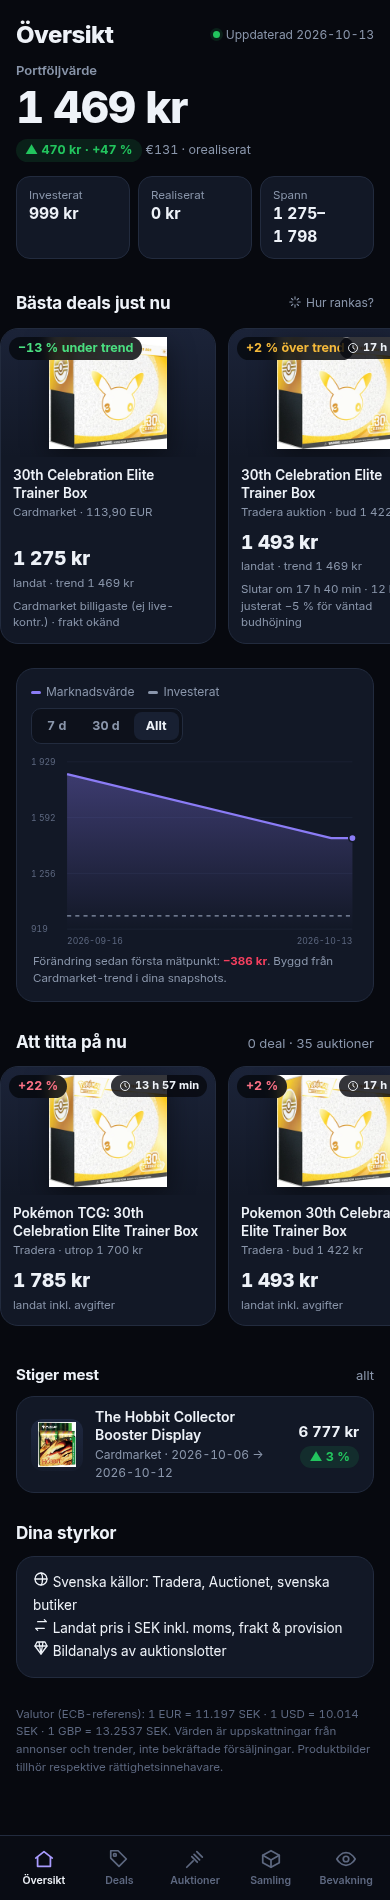
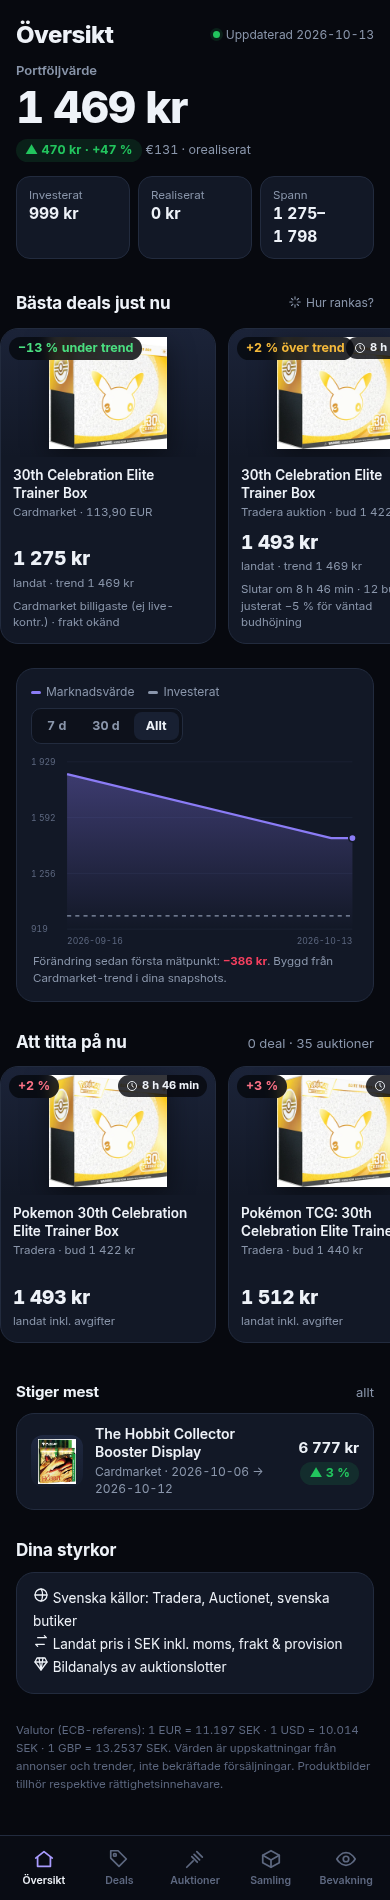
Max 5 per objekt överallt, objektsidor #item/<id>, max 2 per objekt i Bästa deals

diff --git a/app.js b/app.js
@@ -137,30 +137,45 @@ function spark(it) { const p = series(it).pts; if (new Set(p.map(x => x[0])).siz
   return `<svg width=${w} height=${h} viewBox="0 0 ${w} ${h}" style="display:block;margin-left:auto"><polyline fill=none stroke="${c}" stroke-width=1.8 points="${p.map(q => (2 + (q[0] - x0) / (x1 - x0) * (w - 4)) + "," + (h - 2 - (q[1] - y0) / Math.max(y1 - y0, 1) * (h - 4))).join(" ")}"/></svg>`; }
 
 // ---------- delkomponenter ----------
-const sources = it => { const G = [["Cardmarket", ["cardmarket", "packquant"]], ["TCGplayer", ["tcgplayer"]], ["Tradera", ["tradera"]], ["Svenska butiker", ["pokejakt", "dragon", "hobbykort", "kortarkivet", "manatorsk"]], ["eBay", ["ebay"]], ["Aukro", ["aukro"]], ["Övriga EU", ["butiker eu", "pokeschnapp"]]];
-  return `<div class=src>${G.map(([g, k]) => { const ss = it.snapshots.filter(s => k.some(x => s.source.toLowerCase().includes(x))).sort((a, b) => b.date.localeCompare(a.date)).slice(0, 3);
+const sources = (it, full) => { const G = [["Cardmarket", ["cardmarket", "packquant"]], ["TCGplayer", ["tcgplayer"]], ["Tradera", ["tradera"]], ["Svenska butiker", ["pokejakt", "dragon", "hobbykort", "kortarkivet", "manatorsk"]], ["eBay", ["ebay"]], ["Aukro", ["aukro"]], ["Övriga EU", ["butiker eu", "pokeschnapp"]]];
+  return `<div class=src>${G.map(([g, k]) => { const ss = it.snapshots.filter(s => k.some(x => s.source.toLowerCase().includes(x))).sort((a, b) => b.date.localeCompare(a.date)).slice(0, full ? 99 : 3);
     return ss.length ? `<div><b>${g}</b>${ss.map(s => `<div><a href="${esc(s.url)}" target=_blank rel=noopener>${money(s.price, s.currency)}</a> <span class=mut>${TYPES[s.type]} · ${s.date}${s.approx ? "~" : ""}</span></div>`).join("")}</div>` : ""; }).join("")}</div>`; };
 function offerRow(o, withItem) {
-  return `<a class="row${o.stock_status === "out_of_stock" || !o.eng ? " oos" : ""}" href="${esc(o.url)}" target=_blank rel=noopener style="grid-template-columns:${withItem ? "52px " : ""}1fr auto">
+  return `<a class="row${o.stock_status === "out_of_stock" || !o.eng ? " oos" : ""}" title="${esc(o.risk.join(" · "))}" href="${esc(o.url)}" target=_blank rel=noopener style="grid-template-columns:${withItem ? "52px " : ""}1fr auto">
     ${withItem ? `<div class=th>${img(o.item)}</div>` : ""}<div><div class=nm>${o.deal ? '<span class="chip c-g">DEAL</span> ' : ""}${esc(o.source)}${withItem ? ` <span class=mut>· ${esc(short(o.item.name))}</span>` : ""}</div>
-    <div class=meta>${stockBadge(o)}${o.eng ? "" : '<span class="chip c-r">ej engelska</span>'}${o.origin} · ${o.date} · ${esc(o.language)}</div><div class="meta xs">${esc(o.risk.join(" · "))}</div></div>
+    <div class=meta>${stockBadge(o)}${o.eng ? "" : '<span class="chip c-r">ej engelska</span>'}${o.origin} · ${o.date} · ${esc(o.language)}</div></div>
     <div class=rt><b>${kr(o.L)}</b><span class="xs mut">${o.currency !== "SEK" ? fmt(o.price, 2) + " " + o.currency : "landat"}</span><br>${chip(o.d)}</div></a>`;
 }
-function offerRows(list, withItem) {
-  if (!list.length) return '<div class=empty>Inga sparade erbjudanden.</div>';
-  const ok = list.filter(o => o.stock_status !== "out_of_stock" && o.eng).sort((a, b) => (a.stock_status === "in_stock" ? 0 : 1) - (b.stock_status === "in_stock" ? 0 : 1) || (a.L ?? 1e9) - (b.L ?? 1e9));
+const LIM = 5;
+const itemHref = it => `#item/${it.id}`;
+const more = (n, href, what = "erbjudanden") => n > LIM ? `<a class=more href="${href}">Visa alla ${n} ${what} ${ic("chev", 14)}</a>` : "";
+const byDeal = (a, b) => (b.d ?? -1e9) - (a.d ?? -1e9) || (a.L ?? 1e9) - (b.L ?? 1e9);
+function offerRows(list, withItem, full) {
+  if (!list.length) return '<div class="empty sm">Inga sparade erbjudanden.</div>';
+  const ok = list.filter(o => o.stock_status !== "out_of_stock" && o.eng).sort((a, b) => (a.stock_status === "in_stock" ? 0 : 1) - (b.stock_status === "in_stock" ? 0 : 1) || byDeal(a, b));
   const gone = list.filter(o => o.stock_status === "out_of_stock" || !o.eng);
-  return `${ok.length ? `<div class=list>${ok.map(o => offerRow(o, withItem)).join("")}</div>` : '<div class="card empty">Inga verifierade köpbara erbjudanden.</div>'}
-  ${gone.length ? `<div class="list" style="margin-top:8px">${expRow(`<div style="grid-column:1/-1;display:flex;justify-content:space-between;align-items:center"><span class="sm mut">Slut i lager / ej engelska (${gone.length})</span><span class=chev>${ic("chev", 16)}</span></div>`, `<div class=oosl>${gone.map(o => offerRow(o, withItem)).join("")}</div>`)}</div>` : ""}`;
+  const shown = full ? ok : ok.slice(0, LIM), it = list[0].item;
+  return `${ok.length ? `<div class=list>${shown.map(o => offerRow(o, withItem)).join("")}</div>` : '<div class="card empty sm">Inga verifierade köpbara erbjudanden.</div>'}
+  ${full ? (gone.length ? `<div class="list" style="margin-top:8px">${expRow(`<div style="grid-column:1/-1;display:flex;justify-content:space-between;align-items:center"><span class="sm mut">Slut i lager / ej engelska (${gone.length})</span><span class=chev>${ic("chev", 16)}</span></div>`, `<div class=oosl>${gone.map(o => offerRow(o, withItem)).join("")}</div>`)}</div>` : "")
+    : more(list.length, itemHref(it))}`;
 }
-const community = it => (it.community || []).length ? it.community.map(c => `<div class=sm style="margin-bottom:8px"><a href="${esc(c.url)}" target=_blank rel=noopener>${esc(c.label)}</a><br><span class=mut>${esc(c.takeaway)}</span></div>`).join("") : '<div class="sm mut">Inga trådar sparade.</div>';
-function details(it) {
-  const [b, bs] = bench(it);
-  return `<div class=in><p class=sm>${esc(it.notes)}</p><h4>Prishistorik (SEK)</h4><div class=pchart>${itemChart(it)}</div>
-    ${(it.alerts || []).length ? `<h4>Prisbevakning</h4>${alertState(it).map(a => `<div class=sm style="margin-bottom:6px"><span class="chip ${a.hit ? "c-a" : "c-n"}">${ic("bell", 12)} ${a.type === "below" ? "under" : "över"} ${kr(a.sek)}</span> <span class=mut>nu ${kr(a.cur)} (${a.basis === "offer" ? "bästa landade erbjudande" : "mittvärde"}) · ${esc(a.note || "")}</span></div>`).join("")}` : ""}
-    <h4>Källor</h4>${sources(it)}<h4>Erbjudanden${b ? ` · riktmärke ${kr(b)} (Cardmarket-trend ${bs.date})` : ""}</h4>${offerRows(offersOf(it), false)}
-    ${it.cardmarket_url ? `<p class=sm><a href="${esc(it.cardmarket_url)}" target=_blank rel=noopener>${ic("ext", 13)} Cardmarket – engelska annonser (alltid i lager)</a></p>` : ""}<h4>Forum &amp; community</h4>${community(it)}${it.msrp ? `<p class="sm mut">MSRP <a href="${esc(it.msrp.url)}" target=_blank rel=noopener>${money(it.msrp.price, it.msrp.currency)}</a></p>` : ""}
-    ${it.image ? `<p class="xs mut">Bild: <a href="${esc(it.image.source_url)}" target=_blank rel=noopener>${esc(it.image.credit)}</a></p>` : ""}</div>`;
+function aucRow(a) {
+  return `<a class=row href="${esc(a.url)}" target=_blank rel=noopener><div class=th>${a.lot_analysis ? `<img class=cover src="${esc(a.lot_analysis.images[0])}" alt="">` : img(a.it, a.title)}</div>
+    <div><div class=nm>${esc(a.title)}${(a.qty || 1) > 1 ? " ×" + a.qty : ""}</div><div class=meta><span class="chip c-n">${ic("clock", 12)} ${countdown(a.ends_at)}</span>${esc(a.platform)} · ${esc(a.price_kind)} ${a.currency === "SEK" ? kr(a.price) : fmt(a.price) + " " + a.currency}${a.bids ? ` · ${a.bids} bud` : ""}</div></div>
+    <div class=rt><b>${kr(a.per)}</b>${a.d != null ? vs(a.d) : a.lot_analysis ? `<span class="chip ${a.lot_analysis.gems.length ? "c-g" : "c-n"}">${a.lot_analysis.gems.length ? "💎" : "analyserad"}</span>` : ""}</div></a>`;
+}
+const aucRows = (list, full, href) => list.length ? `<div class=list>${(full ? list : list.slice(0, LIM)).map(aucRow).join("")}</div>${full ? "" : more(list.length, href, "auktioner")}` : '<div class="empty sm">Inga pågående auktioner.</div>';
+const community = (it, full) => (it.community || []).length ? (full ? it.community : it.community.slice(0, LIM)).map(c => `<div class=sm style="margin-bottom:8px"><a href="${esc(c.url)}" target=_blank rel=noopener>${esc(c.label)}</a><br><span class=mut>${esc(c.takeaway)}</span></div>`).join("") : '<div class="sm mut">Inga trådar sparade.</div>';
+function details(it, full) {
+  const [b, bs] = bench(it), aucs = auctions().filter(a => a.live && a.item_id === it.id).sort(byDeal);
+  const src = sources(it, full);
+  return `<div class=in>${full ? `<p class="sm mut">${esc(it.notes)}</p>` : ""}<h4>Prishistorik (SEK)</h4><div class=pchart>${itemChart(it)}</div>
+    ${(it.alerts || []).length ? `<h4>Prisbevakning</h4>${alertState(it).map(a => `<div class=sm style="margin-bottom:6px"><span class="chip ${a.hit ? "c-a" : "c-n"}">${ic("bell", 12)} ${a.type === "below" ? "under" : "över"} ${kr(a.sek)}</span> <span class=mut>nu ${kr(a.cur)}</span></div>`).join("")}` : ""}
+    <h4>Bästa erbjudanden${b ? ` · trend ${kr(b)}` : ""}</h4>${offerRows(offersOf(it), false, full)}
+    ${aucs.length ? `<h4>Auktioner</h4>${aucRows(aucs, full, itemHref(it))}` : ""}
+    ${it.cardmarket_url ? `<p class=sm><a href="${esc(it.cardmarket_url)}" target=_blank rel=noopener>${ic("ext", 13)} Cardmarket – engelska annonser</a></p>` : ""}
+    ${full ? `<h4>Källor</h4>${src}<h4>Forum &amp; community</h4>${community(it, true)}${it.msrp ? `<p class="sm mut">MSRP <a href="${esc(it.msrp.url)}" target=_blank rel=noopener>${money(it.msrp.price, it.msrp.currency)}</a></p>` : ""}
+    ${it.image ? `<p class="xs mut">Bild: <a href="${esc(it.image.source_url)}" target=_blank rel=noopener>${esc(it.image.credit)}</a></p>` : ""}` : `<a class=more href="${itemHref(it)}">Öppna objektsidan ${ic("chev", 14)}</a>`}</div>`;
 }
 const expRow = (head, body) => `<div class=row onclick="this.classList.toggle('open')">${head}</div><div class=exp><div>${body}</div></div>`;
 
@@ -178,7 +193,7 @@ function dealCands() {
   return c.sort((x, y) => y.score - x.score);
 }
 function bestOf() {
-  const all = dealCands(), top = all.slice(0, 6), any = top.length && top[0].score > 0;
+  const all = dealCands(), cnt = {}, top = all.filter(x => (cnt[x.it.id] = (cnt[x.it.id] || 0) + 1) <= 2).slice(0, 6), any = top.length && top[0].score > 0;
   const info = `<details class=info><summary>${ic("spark", 14)} Hur rankas?</summary><div class="xs mut">Varje köpbart erbjudande rankas för sig, över alla bevakade objekt, efter <b>rabatt mot Cardmarket-trend</b> i landat SEK (pris + köparavgift/köparskydd + frakt + ev. importmoms).<br>• Butiker: bara verifierat i lager (lagerkoll) och engelska.<br>• Tradera Köp nu: +5 % köparskydd.<br>• Auktioner: nuvarande bud + avgifter, minus antagen budhöjning till slut: 15 % (> 3 d kvar), 10 % (1–3 d), 5 % (6–24 h), 2 % (< 6 h).<br>• Cardmarket: billigaste annons, inte live-kontrollerad.<br>Inga poäng för att bara finnas i lager. Okänd frakt räknas som 0.</div></details>`;
   return `<div class=sec><h2>${any ? "Bästa deals just nu" : "Närmast en deal"}</h2>${info}</div>${any ? "" : `<p class="sm mut" style="margin:-4px 0 10px">Inget köpbart ligger under trend just nu (${all.length} erbjudanden/auktioner jämförda). Här är de som ligger närmast.</p>`}
   <div class=strip>${top.map(x => `<a class=hc href="${esc(x.url)}" target=_blank rel=noopener><div class=im>${img(x.it)}<span class="chip ${x.score > 0 ? "c-g" : x.score > -10 ? "c-a" : "c-r"}" style="position:absolute;top:8px;left:8px">${x.d >= 0 ? "−" + fmt(x.d) + " % under" : "+" + fmt(-x.d) + " % över"} trend</span>${x.ends ? `<span class=tl>${ic("clock", 12)} ${countdown(x.ends)}</span>` : ""}</div>
@@ -190,9 +205,9 @@ function vOverview() {
   const t = totals(), pts = portfolioSeries(), w = winStart(), shown = pts.filter(p => p[0] >= w);
   const before = pts.filter(p => p[0] < w).pop(), base = before || shown[0];
   const ch = base && shown.length ? (shown[shown.length - 1][1] - base[1]) : null;
-  const deals = P.items.flatMap(offersOf).filter(o => o.deal).sort((a, b) => b.d - a.d);
+  const dc = {}, deals = P.items.flatMap(offersOf).filter(o => o.deal).sort((a, b) => b.d - a.d).filter(o => (dc[o.item.id] = (dc[o.item.id] || 0) + 1) <= 2);
   const live = auctions().filter(a => a.live), gems = live.filter(a => a.lot_analysis?.gems?.length);
-  const soon = [...gems, ...live.filter(a => !a.lot_analysis?.gems?.length)].slice(0, 6);
+  const pc = {}, soon = [...gems, ...live.filter(a => !a.lot_analysis?.gems?.length).sort(byDeal)].filter(a => (pc[a.item_id || a.url] = (pc[a.item_id || a.url] || 0) + 1) <= 2).slice(0, 6);
   const fired = P.items.flatMap(it => alertState(it).filter(a => a.hit).map(a => ({...a, it})));
   const movers = P.items.map(it => ({it, m: move(it)})).filter(x => x.m && x.m.d > 0).sort((a, b) => b.m.d - a.m.d).slice(0, 4);
   const strip = [...deals.map(o => `<a class=hc href="${esc(o.url)}" target=_blank rel=noopener><div class=im>${img(o.item)}${chip(o.d) ? `<span class="chip c-g" style="position:absolute;top:8px;left:8px">−${fmt(o.d)} %</span>` : ""}<span class=tl>${ic("tag", 12)} Deal</span></div>
@@ -211,40 +226,41 @@ function vOverview() {
   ${fired.length ? `<div class=banner>${ic("bell")}<div><b>${fired.length} prisbevakning${fired.length > 1 ? "ar" : ""} utlöst${fired.length > 1 ? "a" : ""}</b><br>${fired.map(a => `${esc(short(a.it.name))}: ${a.type === "below" ? "≤" : "≥"} ${kr(a.sek)} (nu ${kr(a.cur)})`).join("<br>")}</div></div>` : ""}
   <div class=sec><h2>Att titta på nu</h2><span>${deals.length} deal · ${live.length} auktioner</span></div>${strip.length ? `<div class=strip>${strip.join("")}</div>` : '<div class="card empty">Inget att lyfta fram just nu.</div>'}
   <div class=two><div><div class=sec><h2 style="font-size:15px">Stiger mest</h2><span>${RANGE === "all" ? "allt" : RANGE.replace("d", " d")}</span></div>
-    ${movers.length ? `<div class=list>${movers.map(({it, m}) => `<a class=row href="#${it.status === "owned" ? "samling" : "bevakning"}"><div class=th>${img(it)}</div><div><div class=nm>${esc(short(it.name))}</div><div class=meta>${esc(m.src)} · ${iso(m.from[0])} → ${iso(m.to[0])}</div></div><div class=rt><b>${kr(m.to[1])}</b>${chip(m.d)}</div></a>`).join("")}</div>` : '<div class="card empty">Inga rörelser i perioden.</div>'}</div>
+    ${movers.length ? `<div class=list>${movers.map(({it, m}) => `<a class=row href="${itemHref(it)}"><div class=th>${img(it)}</div><div><div class=nm>${esc(short(it.name))}</div><div class=meta>${esc(m.src)} · ${iso(m.from[0])} → ${iso(m.to[0])}</div></div><div class=rt><b>${kr(m.to[1])}</b>${chip(m.d)}</div></a>`).join("")}</div>` : '<div class="card empty">Inga rörelser i perioden.</div>'}</div>
   <div><div class=sec><h2>Dina styrkor</h2></div><div class="card" style="padding:14px 16px;font-size:13.5px;line-height:1.7">${ic("se", 16)} Svenska källor: Tradera, Auctionet, svenska butiker<br>${ic("swap", 16)} Landat pris i SEK inkl. moms, frakt &amp; provision<br>${ic("gem", 16)} Bildanalys av auktionslotter</div></div></div>
   ${foot()}`;
 }
+function groupBlock(it, body, n, what) {
+  return `<div class=grp><a class=grph href="${itemHref(it)}"><div class=th>${img(it)}</div><div><div class=nm>${esc(short(it.name))}</div><div class="xs mut">${n} ${what} · trend ${kr(bench(it)[0])}</div></div>${ic("chev", 16)}</a>${body}</div>`;
+}
 function vDeals() {
-  const all = P.items.flatMap(offersOf), deals = all.filter(o => o.deal);
-  return `<div class=h1>Deals</div><p class=sub>Erbjudanden ≥ ${DS.threshold_pct} % under Cardmarket-trend, i landat SEK-pris.</p>
-  ${deals.length ? `<div class=strip>${deals.map(o => `<a class=hc href="${esc(o.url)}" target=_blank rel=noopener><div class=im>${img(o.item)}<span class="chip c-g" style="position:absolute;top:8px;left:8px">−${fmt(o.d)} %</span></div><div class=bd><div class=t>${esc(short(o.item.name))}</div><div class="xs mut">${esc(o.source)} · ${esc(o.risk.slice(0, 2).join(", "))}</div><div class=p>${kr(o.L)}</div></div></a>`).join("")}</div>` : '<div class="card empty">Inga deals just nu.</div>'}
-  <div class=sec><h2>Alla erbjudanden</h2><span>${all.length}</span></div>${offerRows(all, true)}<p class="xs mut" style="margin-top:10px">${esc(DS.notes)}</p>${foot()}`;
+  const all = P.items.flatMap(offersOf), dc = {}, deals = all.filter(o => o.deal).sort((a, b) => b.d - a.d).filter(o => (dc[o.item.id] = (dc[o.item.id] || 0) + 1) <= 2);
+  const items = P.items.filter(it => (it.offers || []).length).map(it => ({it, os: offersOf(it)})).sort((a, b) => (Math.max(...b.os.filter(o => o.stock_status === "in_stock" && o.eng).map(o => o.d ?? -1e9), -1e9)) - (Math.max(...a.os.filter(o => o.stock_status === "in_stock" && o.eng).map(o => o.d ?? -1e9), -1e9)));
+  return `<div class=h1>Deals</div><p class=sub>≥ ${DS.threshold_pct} % under Cardmarket-trend i landat SEK. Max 5 per objekt – tryck för alla.</p>
+  ${deals.length ? `<div class=strip>${deals.map(o => `<a class=hc href="${esc(o.url)}" target=_blank rel=noopener><div class=im>${img(o.item)}<span class="chip c-g" style="position:absolute;top:8px;left:8px">−${fmt(o.d)} %</span></div><div class=bd><div class=t>${esc(short(o.item.name))}</div><div class="xs mut">${esc(o.source)}</div><div class=p>${kr(o.L)}</div></div></a>`).join("")}</div>` : '<div class="card empty sm">Inga deals just nu.</div>'}
+  <div class=sec><h2>Per objekt</h2><span>${all.length} erbjudanden</span></div>${items.map(({it, os}) => groupBlock(it, offerRows(os, false, false), os.length, "erbjudanden")).join("")}${foot()}`;
 }
 function vAuctions() {
   const live = auctions().filter(a => a.live), lots = live.filter(a => a.lot_analysis);
   const fees = Object.entries(AF).map(([k, v]) => `<a href="${esc(v.source)}" target=_blank rel=noopener>${esc(k)}</a> ${v.premium_pct} % + ${v.fixed} ${v.currency}`).join(" · ");
   return `<div class=h1>Auktioner</div><p class=sub>Tradera, Auctionet &amp; Bukowskis · landat pris inkl. köparprovision${", +25 % importmoms för UK-hus"}.</p>
-  <div class=sec><h2>Slutar snart</h2><span>${live.length} pågående</span></div>
-  <div class=list>${live.map(a => `<a class=row href="${esc(a.url)}" target=_blank rel=noopener><div class=th>${a.lot_analysis ? `<img class=cover src="${esc(a.lot_analysis.images[0])}" alt="">` : img(a.it, a.title)}</div>
-    <div><div class=nm>${esc(a.title)}${(a.qty || 1) > 1 ? " ×" + a.qty : ""}</div><div class=meta><span class="chip c-n">${ic("clock", 12)} ${countdown(a.ends_at)}</span>${esc(a.platform)} · ${esc(a.price_kind)} ${a.currency === "SEK" ? kr(a.price) : fmt(a.price) + " " + a.currency}${a.estimate ? ` · värd. ${fmt(a.estimate)} ${a.currency}` : ""}</div></div>
-    <div class=rt><b>${kr(a.per)}</b>${a.d != null ? vs(a.d) : a.lot_analysis ? `<span class="chip ${a.lot_analysis.gems.length ? "c-g" : "c-n"}">${a.lot_analysis.gems.length ? "💎" : "analyserad"}</span>` : ""}</div></a>`).join("") || '<div class=empty>Inga pågående auktioner.</div>'}</div>
-  ${lots.length ? `<div class=sec><h2>Lotter – bildanalys</h2><span>${ic("gem", 14)} dyrgripar / gömt och glömt</span></div><div class=list>${lots.map(a => { const x = a.lot_analysis;
+  <div class=sec><h2>Per objekt</h2><span>${live.length} pågående</span></div>
+  ${P.items.map(it => ({it, l: live.filter(a => a.item_id === it.id).sort(byDeal)})).filter(x => x.l.length).map(({it, l}) => groupBlock(it, aucRows(l, false, itemHref(it)), l.length, "auktioner")).join("")}
+  ${lots.length ? `<div class=sec><h2>Lotter – bildanalys</h2><span>${ic("gem", 14)} dyrgripar / gömt och glömt</span></div><div class=list>${(location.hash === "#lotter" ? lots : lots.slice(0, LIM)).map(a => { const x = a.lot_analysis;
     return expRow(`<div class=th><img class=cover src="${esc(x.images[0])}" alt=""></div><div><div class=nm>${esc(a.title)}</div><div class=meta>${x.gems.length ? x.gems.map(g => `<span class="chip c-g">💎 ${esc(g)}</span>`).join("") : '<span class="chip c-n">Inga dyrgripar</span>'}${x.flags.map(f => `<span class="chip c-a">${esc(f)}</span>`).join("")}</div></div><div class=rt><b>${kr(a.L)}</b><span class="xs mut">${countdown(a.ends_at)}</span><br><span class=chev>${ic("chev", 16)}</span></div>`,
       `<div class=in><p class=sm><b>Bedömning:</b> ${esc(x.verdict)}</p><p class="sm mut">${esc(x.value_note)}${x.value_range ? " Uppskattat värde: " + esc(x.value_range) : ""}</p><h4>Hittat i bilderna</h4>
        ${x.identified.map(i => `<div class=sm style="margin-bottom:8px"><b>${esc(i.what)}</b><br><span class=mut>${esc(i.notes || "")}</span>${i.price ? `<br>${i.url ? `<a href="${esc(i.url)}" target=_blank rel=noopener>${esc(i.price)}</a>` : esc(i.price)}` : ""}</div>`).join("")}
-       <h4>Bilder</h4><div class=gal>${x.images.map(u => `<a href="${esc(u)}" target=_blank><img src="${esc(u)}" loading=lazy alt=""></a>`).join("")}</div><p class="xs mut">Analyserad ${esc(x.analyzed)} · <a href="${esc(a.url)}" target=_blank rel=noopener>Öppna auktionen ${ic("ext", 12)}</a></p></div>`); }).join("")}</div>` : ""}
-  <div class=sec><h2>Övrigt att bevaka</h2></div><div class=list>${(P.market_watch || []).map(m => `<a class=row href="${esc(m.url)}" target=_blank rel=noopener style="grid-template-columns:1fr auto"><div><div class=nm>${esc(m.title)}</div><div class=meta>${esc(m.platform)} · ${m.date_seen} · ${esc(m.notes)}</div></div><div class=rt><b>${m.price ? kr(sek(m.price, m.currency)) : "–"}</b></div></a>`).join("")}</div>
+       <h4>Bilder</h4><div class=gal>${x.images.map(u => `<a href="${esc(u)}" target=_blank><img src="${esc(u)}" loading=lazy alt=""></a>`).join("")}</div><p class="xs mut">Analyserad ${esc(x.analyzed)} · <a href="${esc(a.url)}" target=_blank rel=noopener>Öppna auktionen ${ic("ext", 12)}</a></p></div>`); }).join("")}</div>${location.hash === "#lotter" ? "" : more(lots.length, "#lotter", "lotter")}` : ""}
+  <div class=sec><h2>Övrigt att bevaka</h2></div><div class=list>${(P.market_watch || []).slice(0, LIM).map(m => `<a class=row href="${esc(m.url)}" target=_blank rel=noopener style="grid-template-columns:1fr auto"><div><div class=nm>${esc(m.title)}</div><div class=meta>${esc(m.platform)} · ${m.date_seen} · ${esc(m.notes)}</div></div><div class=rt><b>${m.price ? kr(sek(m.price, m.currency)) : "–"}</b></div></a>`).join("")}</div>
   <p class="xs mut" style="margin-top:10px">Avgifter: ${fees}. Tradera-procenten är observerad, ej officiell.</p>${foot()}`;
 }
 function vCollection() {
   const {h} = holdings(); const owned = P.items.filter(i => i.status === "owned");
   const tx = [...(P.transactions || [])].sort((a, b) => (b.date || "").localeCompare(a.date || ""));
-  return `<div class=h1>Samling</div><p class=sub>${owned.length} objekt · tryck för graf, källor och erbjudanden.</p>
+  return `<div class=h1>Samling</div><p class=sub>${owned.length} objekt · tryck för detaljer.</p>
   <div class=list>${owned.map(it => { const q = h[it.id]?.qty ?? it.quantity, c = h[it.id]?.cost ?? it.purchase_price_sek, m = val(it, "mid") * q, g = m - c;
-    return expRow(`<div class=th>${img(it)}</div><div><div class=nm>${esc(short(it.name))}</div><div class=meta>${esc(it.category)} · ${esc(it.language)} · ${q} st · köpt ${kr(c)}</div><div class=alerts>${alertChips(it)}</div></div>
-      <div class=rt><b>${kr(m)}</b>${chip(g / c * 100)}${spark(it)}<span class=chev>${ic("chev", 16)}</span></div>`,
-      `<div class=range style="padding:12px 0 0">${[["conservative", "Försiktig"], ["mid", "Mitten"], ["high", "Hög"]].map(([k, l]) => `<div><span>${l} · ${esc((it.valuation[k] || it.valuation.mid).basis)}</span><b>${kr(val(it, k))}</b></div>`).join("")}</div>${details(it)}`); }).join("")}</div>
+    return `<a class=row href="${itemHref(it)}"><div class=th>${img(it)}</div><div><div class=nm>${esc(short(it.name))}</div><div class=meta>${esc(it.category)} · ${esc(it.language)} · ${q} st · köpt ${kr(c)}</div><div class=alerts>${alertChips(it)}</div></div>
+      <div class=rt><b>${kr(m)}</b>${chip(g / c * 100)}${spark(it)}</div></a>`; }).join("")}</div>
   <div class=sec><h2>Transaktioner</h2><span>${tx.length}</span></div>
   <div class=list>${tx.map(t => { const it = ITEMS[t.item_id]; return `<div class=row style="cursor:default"><div class=th>${img(it)}</div><div><div class=nm>${t.type === "buy" ? "Köp" : "Sälj"} · ${esc(short(it?.name || t.item_id))}</div><div class=meta>${t.date || "datum okänt"} · ${esc(t.platform)} · ${t.qty} st${t.fees_sek ? " · avgifter " + kr(t.fees_sek) : ""}${t.note ? " · " + esc(t.note) : ""}</div></div><div class=rt><b class="${t.type === "sell" ? "g" : ""}">${t.type === "buy" ? "−" : "+"}${kr(t.price_sek)}</b></div></div>`; }).join("")}</div>
   ${(() => { const t = totals(); return `<div class=kpis><div class=kpi><span>Orealiserat</span><b class="${t.unreal >= 0 ? "g" : "r"}">${t.unreal >= 0 ? "+" : "−"}${kr(Math.abs(t.unreal))}</b></div><div class=kpi><span>Realiserat</span><b>${kr(t.realised)}</b></div><div class=kpi><span>Investerat</span><b>${kr(t.cost)}</b></div></div>`; })()}${foot()}`;
@@ -253,8 +269,17 @@ function vWatch() {
   const w = P.items.filter(i => i.status === "watchlist");
   return `<div class=h1>Bevakning</div><p class=sub>Ej ägda · marknadsvärde (Cardmarket) · prisbevakningar.</p>
   <div class=list>${w.map(it => { const m = move(it), deals = offersOf(it).filter(o => o.deal).length;
-    return expRow(`<div class=th>${img(it)}</div><div><div class=nm>${esc(short(it.name))}</div><div class=meta>${esc(it.category)}${deals ? ` · <span class="chip c-g">${deals} deal</span>` : ""}</div><div class=alerts>${alertChips(it)}</div></div>
-      <div class=rt><b>${kr(val(it, "mid"))}</b>${m ? chip(m.d) : `<span class="xs mut">${eur(val(it, "mid"))}</span>`}${spark(it)}<span class=chev>${ic("chev", 16)}</span></div>`, details(it)); }).join("")}</div>${foot()}`;
+    return `<a class=row href="${itemHref(it)}"><div class=th>${img(it)}</div><div><div class=nm>${esc(short(it.name))}</div><div class=meta>${esc(it.category)}${deals ? ` · <span class="chip c-g">${deals} deal</span>` : ""}</div><div class=alerts>${alertChips(it)}</div></div>
+      <div class=rt><b>${kr(val(it, "mid"))}</b>${m ? chip(m.d) : `<span class="xs mut">${eur(val(it, "mid"))}</span>`}${spark(it)}</div></a>`; }).join("")}</div>${foot()}`;
+}
+function vItem(id) {
+  const it = ITEMS[id]; if (!it) return '<div class="card empty">Objektet finns inte.</div>';
+  const {h} = holdings(), x = h[it.id], m = val(it, "mid"), back = it.status === "owned" ? "samling" : "bevakning";
+  return `<a class=back href="#${back}" onclick="if(history.length>1){history.back();return false}">${ic("chev", 16)} Tillbaka</a>
+  <div class="card big"><div class=th>${img(it)}</div><div><div class="xs mut">${esc(it.category)} · ${esc(it.language)} · ${it.status === "owned" ? "Ägd" : "Bevakning"}</div><div class=nm style="font-weight:700;font-size:17px;line-height:1.3">${esc(short(it.name))}</div><div class=v>${kr(m)}</div>
+    ${x && x.qty > 0 ? chip((m * x.qty - x.cost) / x.cost * 100) + ` <span class="xs mut">köpt ${kr(x.cost)}</span>` : `<span class="xs mut">${eur(m)} · ${esc(it.valuation.mid.basis)}</span>`}<div class=alerts>${alertChips(it)}</div></div></div>
+  ${it.valuation.conservative ? `<div class=range style="padding:10px 0 0">${[["conservative", "Försiktig"], ["mid", "Mitten"], ["high", "Hög"]].map(([k, l]) => `<div><span>${l}</span><b>${kr(val(it, k))}</b></div>`).join("")}</div>` : ""}
+  <div class="card" style="margin-top:14px">${details(it, true)}</div>${foot()}`;
 }
 const foot = () => `<p class=foot>Valutor (ECB-referens): ${Object.entries(P.rates).map(([k, v]) => `1 ${k} = ${v} SEK`).join(" · ")}. Värden är uppskattningar från annonser och trender, inte bekräftade försäljningar. Produktbilder tillhör respektive rättighetsinnehavare.</p>`;
 
@@ -267,7 +292,9 @@ function nav() {
   document.getElementById("side").innerHTML = `<div class=brand><span class=logo>${ic("box", 18)}</span>Samlarportfölj</div>` + links(false);
 }
 function route() {
-  if (!P) return; const k = VIEWS[location.hash.slice(1)] ? location.hash.slice(1) : "oversikt"; nav();
+  if (!P) return; const hsh = location.hash.slice(1);
+  if (hsh.startsWith("item/")) { nav(); document.getElementById("app").innerHTML = `<div class=view>${vItem(decodeURIComponent(hsh.slice(5)))}</div>`; return; }
+  const k = VIEWS[hsh] ? hsh : hsh === "lotter" ? "auktioner" : "oversikt"; nav();
   document.getElementById("app").innerHTML = `<div class=view>${VIEWS[k][2]()}</div>`;
 }
 window.addEventListener("hashchange", () => { route(); window.scrollTo(0, 0); });

diff --git a/style.css b/style.css
@@ -82,3 +82,7 @@ main{flex:1;min-width:0;max-width:1120px;margin:0 auto;padding:calc(14px + env(s
 .row.oos{opacity:.5}.row.oos b{text-decoration:line-through}.oosl .row{border-top:1px solid var(--line)}
 .row>div{min-width:0}.row .meta .chip{white-space:normal}
 .info{position:relative;font-size:12px;color:var(--mut)}.info summary{cursor:pointer;list-style:none;display:flex;gap:4px;align-items:center}.info summary::-webkit-details-marker{display:none}.info>div{position:absolute;right:0;top:22px;z-index:5;width:290px;background:var(--card2);border:1px solid var(--line);border-radius:12px;padding:10px 12px;line-height:1.5;box-shadow:0 10px 30px rgba(0,0,0,.5)}
+.more{display:flex;align-items:center;justify-content:center;gap:4px;margin:8px 0 2px;padding:9px;border-radius:12px;font-size:13px;font-weight:600;color:var(--acc2);background:rgba(139,124,246,.08)}.more svg{transform:rotate(-90deg)}
+.grp{margin-bottom:18px}.grph{display:flex;align-items:center;gap:10px;margin:0 2px 8px;color:var(--txt)}.grph .th{width:36px;height:36px;border-radius:9px}.grph .nm{font-weight:650;font-size:14px}.grph>svg{margin-left:auto;transform:rotate(-90deg);color:var(--dim)}
+.back{display:inline-flex;align-items:center;gap:4px;color:var(--mut);font-size:14px;font-weight:600;margin:2px 0 12px}.back svg{transform:rotate(90deg)}
+.row .meta{gap:4px 6px}.in h4{margin:20px 0 8px}

diff --git a/index.html b/index.html
@@ -1,7 +1,7 @@
 <!doctype html><html lang="sv"><head><meta charset="utf-8">
 <meta name="viewport" content="width=device-width,initial-scale=1,viewport-fit=cover">
 <meta name="theme-color" content="#07090f"><meta name="apple-mobile-web-app-capable" content="yes"><meta name="apple-mobile-web-app-status-bar-style" content="black-translucent">
-<title>Samlarportfölj</title><link rel="stylesheet" href="style.css?v=16"></head>
+<title>Samlarportfölj</title><link rel="stylesheet" href="style.css?v=18"></head>
 <body>
 <div class="shell">
   <aside class="side" id="side"></aside>
@@ -10,4 +10,4 @@
   </main>
 </div>
 <nav class="tabbar" id="tabbar"></nav>
-<script src="app.js?v=16"></script></body></html>
+<script src="app.js?v=18"></script></body></html>
